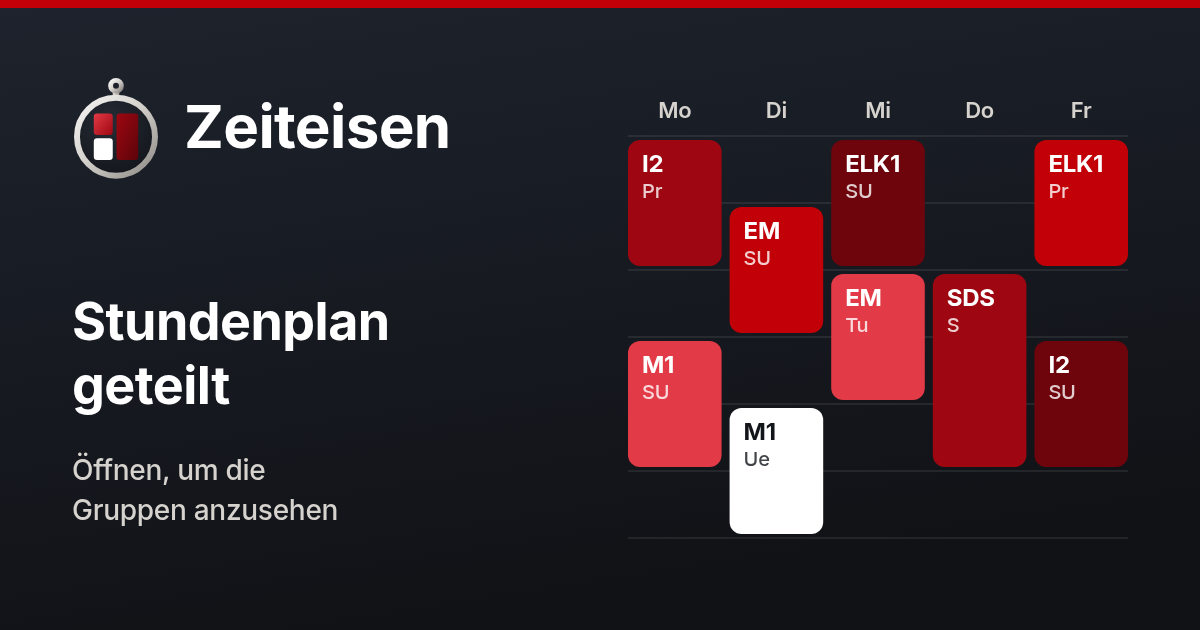
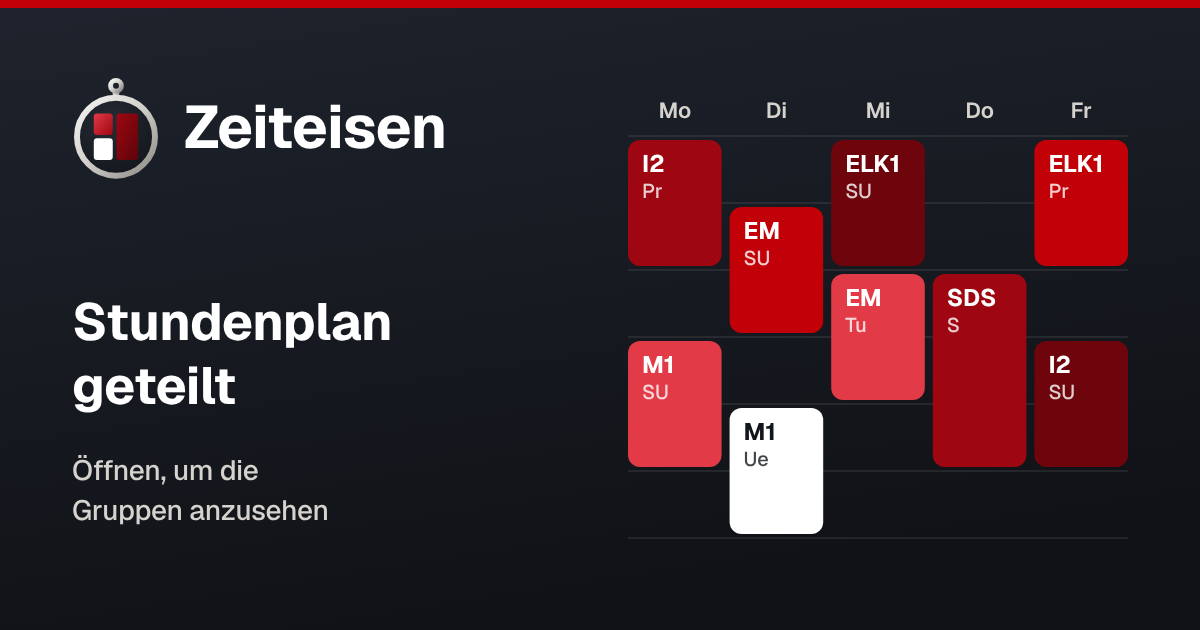
Update what still describes the app before the redesign
- Skill dialog: own files are uploaded in Settings → Own files, not in
  the Data menu (en, de).
- Link preview cards in Geist, the app's font: the script still read
  Inter from node_modules, which the redesign removed.
- Comments and notes: the bottom bar, the settings, the category view
  and the debug button in the settings replace the tab bar, the Data
  menu, ClassPicker and the footer look-alike.

Claude-Session: https://claude.ai/code/session_01RRRDJwJ7eKga68snzPXTdZ

diff --git a/index.html b/index.html
@@ -7,7 +7,7 @@
          `scripts/app-icons.mjs` renders it from `public/logo.svg`. -->
     <link rel="apple-touch-icon" href="/apple-touch-icon.png" />
     <!-- `viewport-fit=cover`: without it iOS reports every safe-area inset as
-         0, so the tab bar sat under the home indicator of an installed PWA.
+         0, so the bottom bar would sit under the home indicator of an installed PWA.
          The app pads by `env(safe-area-inset-*)` itself (App's header,
          grid and pages, BottomBar, the sheets). `interactive-widget=resizes-content`: Android's keyboard
          shrinks the page instead of covering it, so the full-height notes

diff --git a/src/components/DebugDialog.tsx b/src/components/DebugDialog.tsx
@@ -14,9 +14,8 @@ import { Textarea } from "@/components/ui/textarea";
 import { debugReport } from "@/lib/debug";
 import { toast } from "@/lib/toast";
 
-// "Debug info" under About in the settings: the button and
-// its dialog in one, from the deferred chunk (App's footer shows a disabled
-// look-alike, `DebugTriggerContent`, until it arrives).
+// "Debug info" under About in the settings: the button and its dialog in one,
+// in the deferred chunk with the settings.
 export function DebugButton(props: Omit<ComponentProps<typeof Button>, "onClick" | "children">) {
   const [open, setOpen] = useState(false);
   return (

diff --git a/src/lib/NOTES.md b/src/lib/NOTES.md
@@ -102,8 +102,8 @@ re-implements primitive logic.
   university's "Block / n.V. / Samstag" column, no known weekday) has no date
   and never goes in; the export names those in a warning toast
   (`undatedClasses`) with the way in: give them dates in the editor.
-- `uploader.ts` — `loadUpload()`: the lazy `@/lib/upload` import of the Data
-  menu uploads, `null` plus a toast when the chunk is gone after a deploy.
+- `uploader.ts` — `loadUpload()`: the lazy `@/lib/upload` import of the
+  settings' uploads, `null` plus a toast when the chunk is gone after a deploy.
 - `backup.ts` — the settings' backup: `zeiteisen-<date>.backup`; a restore
   writes storage (a refused write puts every key back as it was, so storage and
   the running page agree) and reloads the page, because every hook read its

diff --git a/scripts/NOTES.md b/scripts/NOTES.md
@@ -68,7 +68,7 @@
   all four (read once, at install).
 - `scripts/og/card.mjs` (`node scripts/og/card.mjs`, by hand) write the link
   preview cards `og.svg` / `og-share.svg` from one template (favicon watch,
-  mini Mo–Fr grid in the favicon's and timetable tints' reds, Inter from
+  mini Mo–Fr grid in the favicon's reds, Geist, the app's font, from
   `node_modules`) and render them with `web-shot` to `public/og.png` /
   `public/og-share.png`, 1200×630, both committed. PNG because WhatsApp
   refuses SVG; keep each under 300 KB (WhatsApp's limit).

diff --git a/CLAUDE.md b/CLAUDE.md
@@ -16,7 +16,7 @@ not "migrate anyway".
 
 ## Domain
 
-Why groups exist — read before touching the tree, `ClassPicker` or warnings.
+Why groups exist — read before touching the group tree, its category view or warnings.
 
 A subject is taught in several variations (`Kind`: `SU` lecture, `Pr`
 laboratory, `Ue` exercise, `Tu` tutorial, `S` seminar, `WF` elective subject
